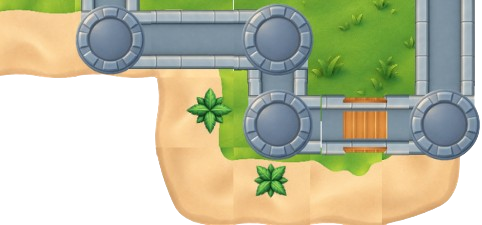
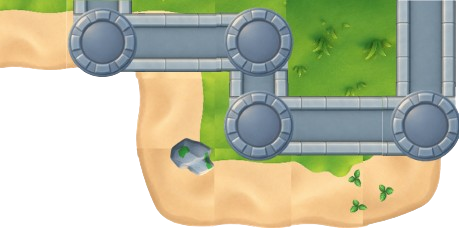
melhoria da imagem da ilha

diff --git a/pirate-battle/src/game/config.ts b/pirate-battle/src/game/config.ts
@@ -105,8 +105,8 @@ export const ISLAND_SPECS: IslandSpec[] = [
     wFrac: 0.40,
     textureKey: 'island1',
     turrets: [
-      { xFrac: 0.58, yFrac: 0.55 },
-      { xFrac: 0.92, yFrac: 0.55 },
+      { xFrac: 0.565, yFrac: 0.55 },
+      { xFrac: 0.925, yFrac: 0.55 },
     ],
   },
   {
